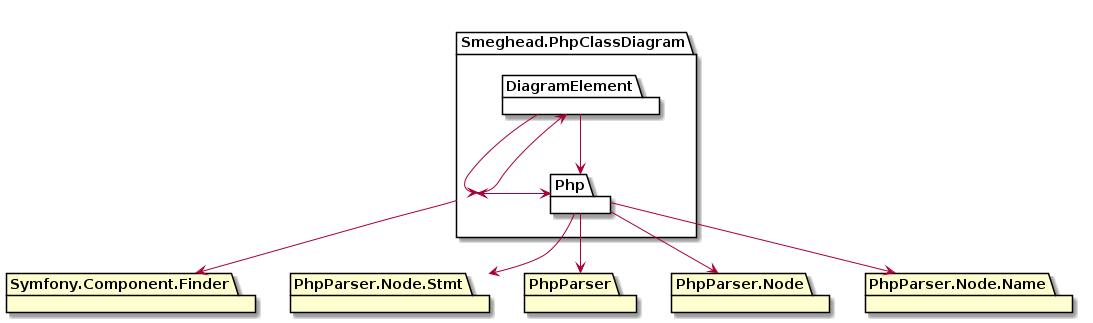
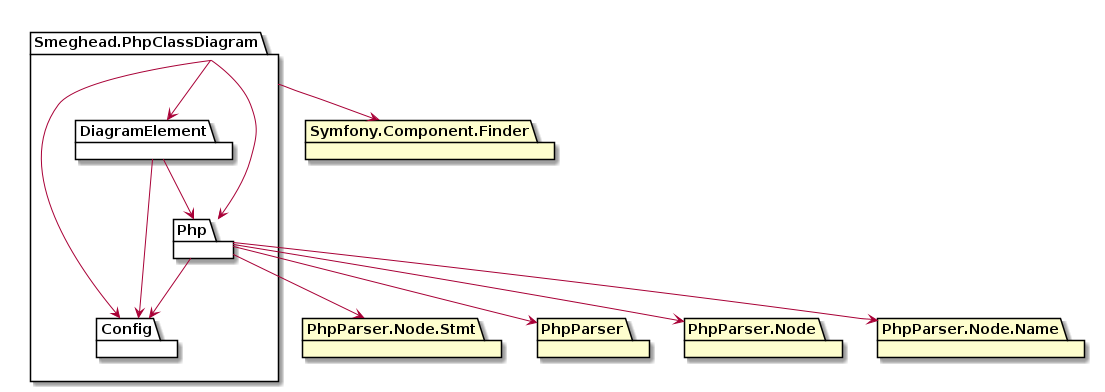
refactor class name. rename Options to Config\Options.

diff --git a/test/PhpReflectionTest.php b/test/PhpReflectionTest.php
@@ -1,7 +1,7 @@
 <?php declare(strict_types=1);
 use PHPUnit\Framework\TestCase;
 
-use Smeghead\PhpClassDiagram\Options;
+use Smeghead\PhpClassDiagram\Config\Options;
 use Smeghead\PhpClassDiagram\Php\PhpReader;
 
 final class PhpReflectionTest extends TestCase {

diff --git a/src/DiagramElement/Entry.php b/src/DiagramElement/Entry.php
@@ -1,7 +1,7 @@
 <?php declare(strict_types=1);
 namespace Smeghead\PhpClassDiagram\DiagramElement;
 
-use Smeghead\PhpClassDiagram\Options;
+use Smeghead\PhpClassDiagram\Config\Options;
 use Smeghead\PhpClassDiagram\Php\ {
     PhpClass,
     PhpAccessModifier,

diff --git a/test/OptionsTest.php b/test/OptionsTest.php
@@ -1,7 +1,7 @@
 <?php declare(strict_types=1);
 use PHPUnit\Framework\TestCase;
 
-use Smeghead\PhpClassDiagram\Options;
+use Smeghead\PhpClassDiagram\Config\Options;
 
 final class OptionsTest extends TestCase {
     public function setUp(): void {

diff --git a/test/PackageTest.php b/test/PackageTest.php
@@ -1,7 +1,7 @@
 <?php declare(strict_types=1);
 use PHPUnit\Framework\TestCase;
 
-use Smeghead\PhpClassDiagram\Options;
+use Smeghead\PhpClassDiagram\Config\Options;
 use Smeghead\PhpClassDiagram\DiagramElement\ {
     Relation,
     Entry,

diff --git a/test/RelationTest.php b/test/RelationTest.php
@@ -1,7 +1,7 @@
 <?php declare(strict_types=1);
 use PHPUnit\Framework\TestCase;
 
-use Smeghead\PhpClassDiagram\Options;
+use Smeghead\PhpClassDiagram\Config\Options;
 use Smeghead\PhpClassDiagram\DiagramElement\ {
     Entry,
     Relation,

diff --git a/src/DiagramElement/Relation.php b/src/DiagramElement/Relation.php
@@ -1,7 +1,7 @@
 <?php declare(strict_types=1);
 namespace Smeghead\PhpClassDiagram\DiagramElement;
 
-use Smeghead\PhpClassDiagram\Options;
+use Smeghead\PhpClassDiagram\Config\Options;
 
 class Relation {
     private Options $options;

diff --git a/src/DiagramElement/Package.php b/src/DiagramElement/Package.php
@@ -1,7 +1,7 @@
 <?php declare(strict_types=1);
 namespace Smeghead\PhpClassDiagram\DiagramElement;
 
-use Smeghead\PhpClassDiagram\Options;
+use Smeghead\PhpClassDiagram\Config\Options;
 
 class Package {
     private Options $options;

diff --git a/src/Php/PhpReader.php b/src/Php/PhpReader.php
@@ -8,7 +8,7 @@ use PhpParser\Node\Stmt\ {
     Namespace_,
     ClassLike,
 };
-use Smeghead\PhpClassDiagram\Options;
+use Smeghead\PhpClassDiagram\Config\Options;
 
 class PhpReader {
     private string $directory;

diff --git a/src/Main.php b/src/Main.php
@@ -2,6 +2,7 @@
 namespace Smeghead\PhpClassDiagram;
 
 use Symfony\Component\Finder\Finder;
+use Smeghead\PhpClassDiagram\Config\Options;
 use Smeghead\PhpClassDiagram\DiagramElement\ {
     Entry,
     Relation,

diff --git a/src/Config/Options.php b/src/Config/Options.php
@@ -1,5 +1,5 @@
 <?php declare(strict_types=1);
-namespace Smeghead\PhpClassDiagram;
+namespace Smeghead\PhpClassDiagram\Config;
 
 class Options {
     private array $opt;

diff --git a/CHANGELOG.md b/CHANGELOG.md
@@ -5,6 +5,7 @@
  * refactor class name. rename Namespace\_ to Package.
  * refactor class name. rename PhpRelection to Php\PhpReader.
  * refactor class name. rename Relation to DiagramElement\Relation.
+ * refactor class name. rename Options to Config\Options.
 
 ## v0.0.4 (2021-11-21)
 
